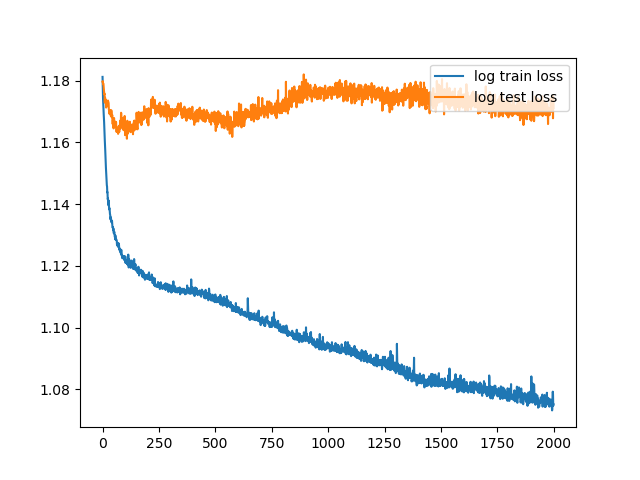
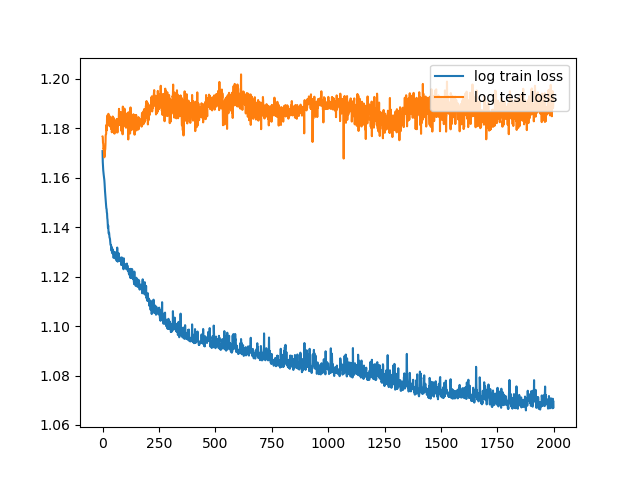
20191003

diff --git a/nn_attention_train.py b/nn_attention_train.py
@@ -62,7 +62,7 @@ ARTIFICIAL = False
 NET = ATTENTION
 BATCH_SIZE = 10
 LEARNING_RATE = 0.05
-WEIGHT_DECAY = torch.tensor(0.005).float()
+WEIGHT_DECAY = torch.tensor(0.002).float()
 QUERY_DIM = 9
 KEY_DIM = 6
 FEATURE_DIM = 5
